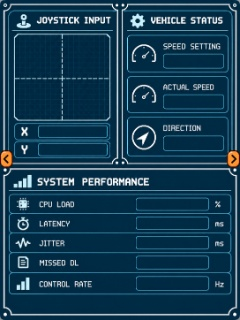
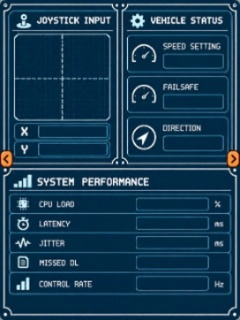
adding failsafe in case we don't send any packets to the robot

diff --git a/esp32_transmitter/include/speaker.h b/esp32_transmitter/include/speaker.h
@@ -8,5 +8,5 @@ void init_speaker(void);
 void speaker_update(uint8_t button_packet);
 void speaker_on(void);
 void speaker_off(void);
-
+void speaker_pattern(int beep_count, uint32_t beep_on, uint32_t beep_off);
 #endif
